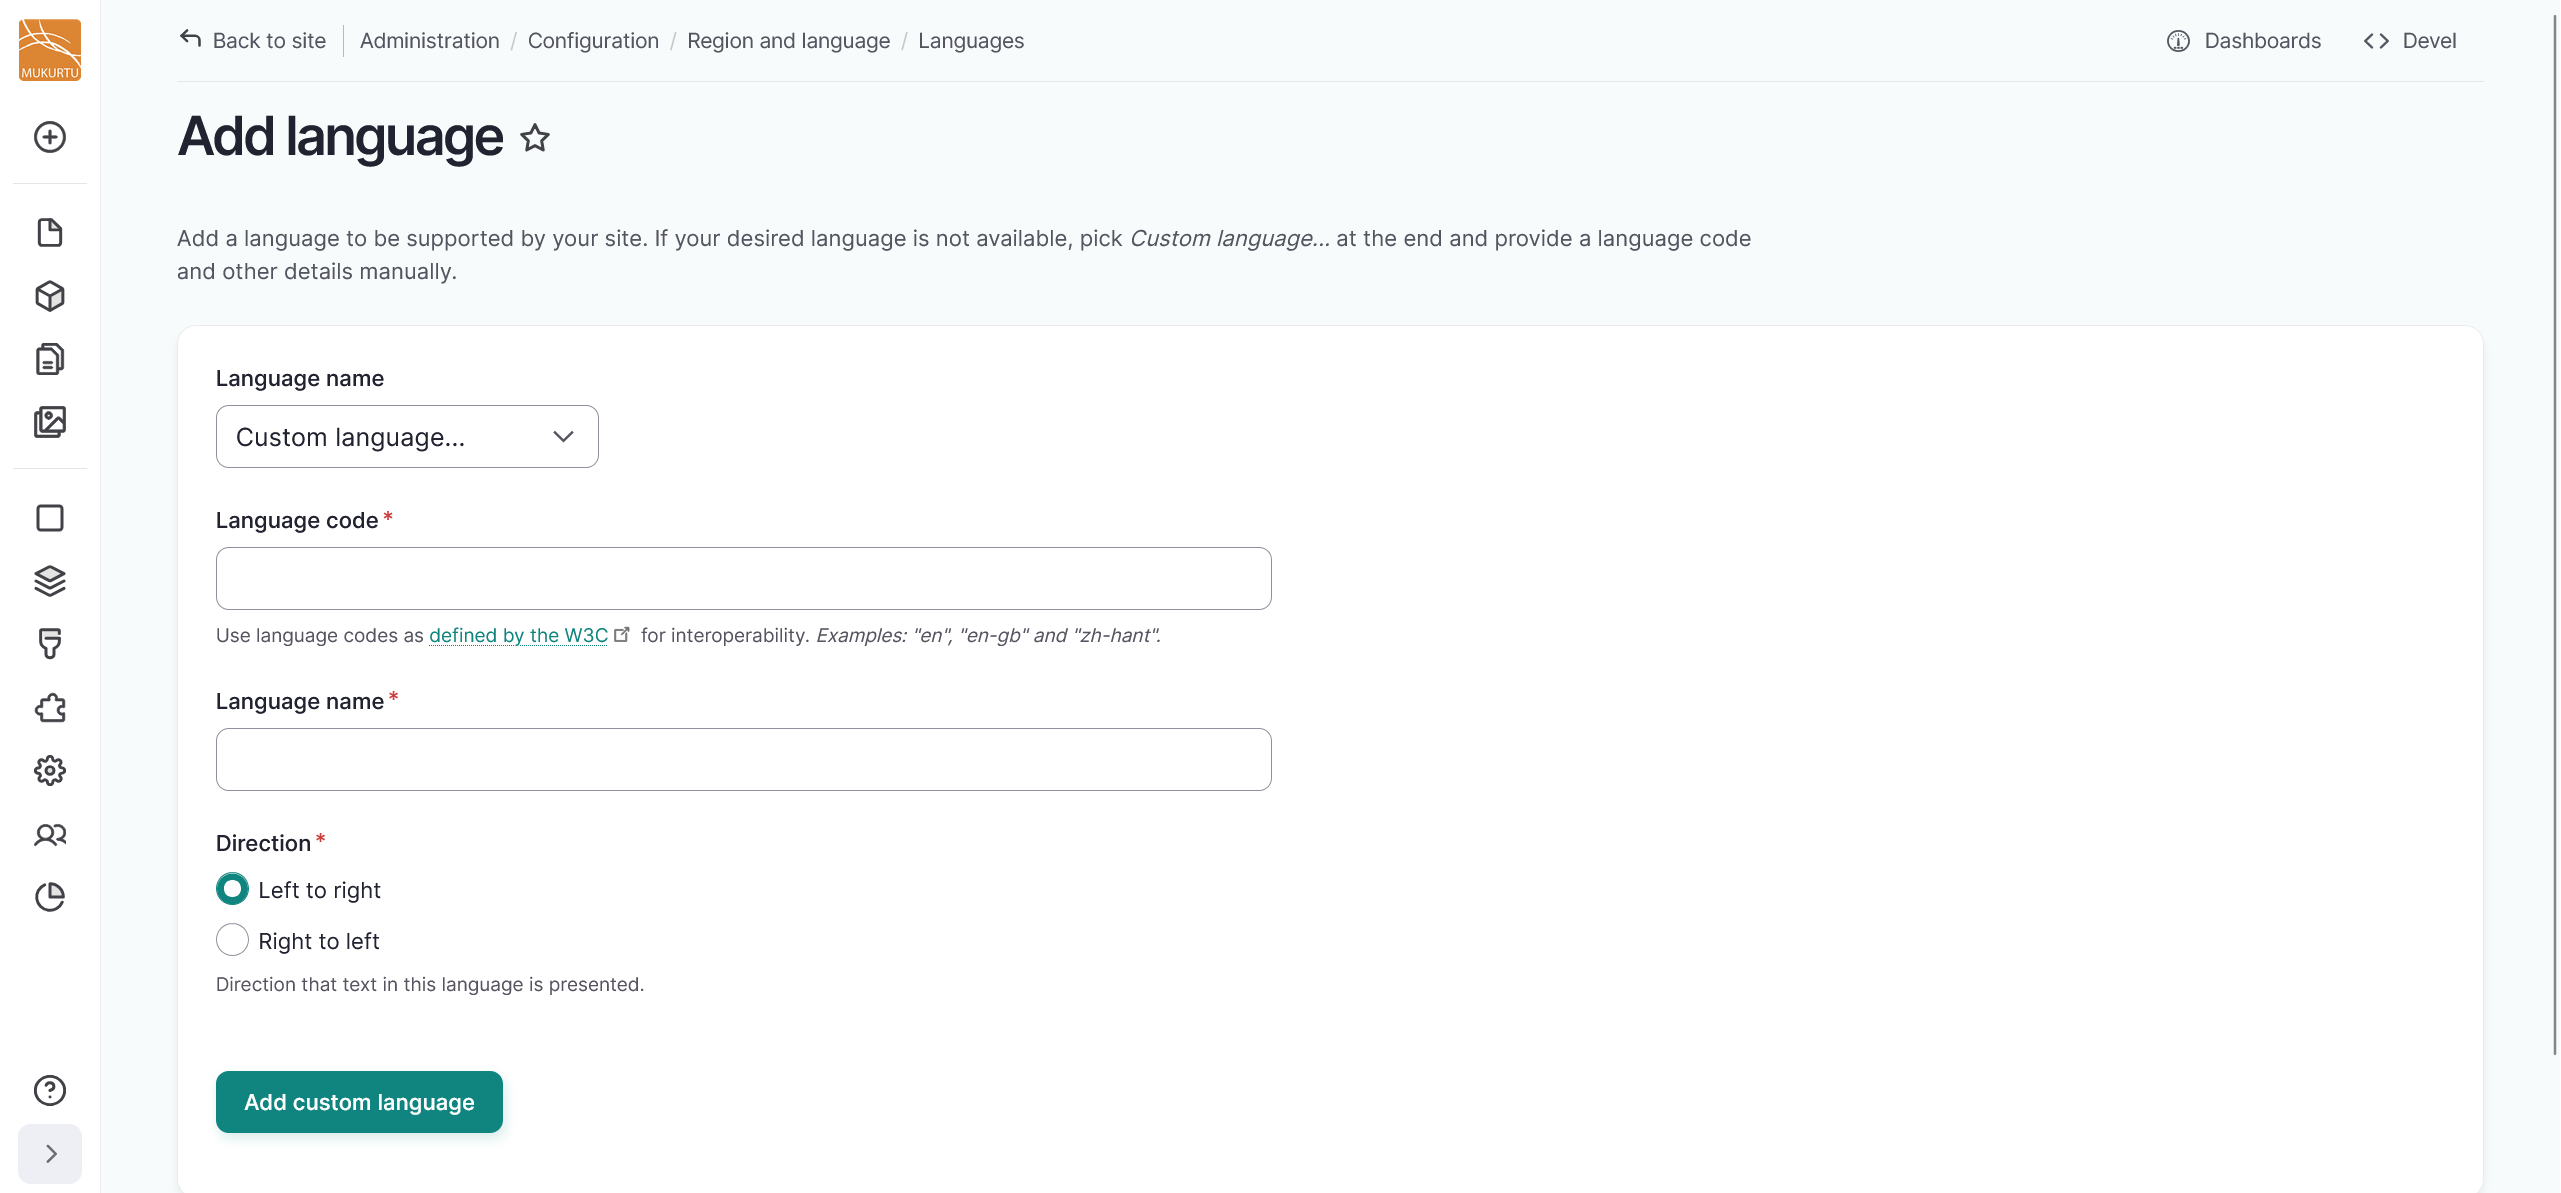
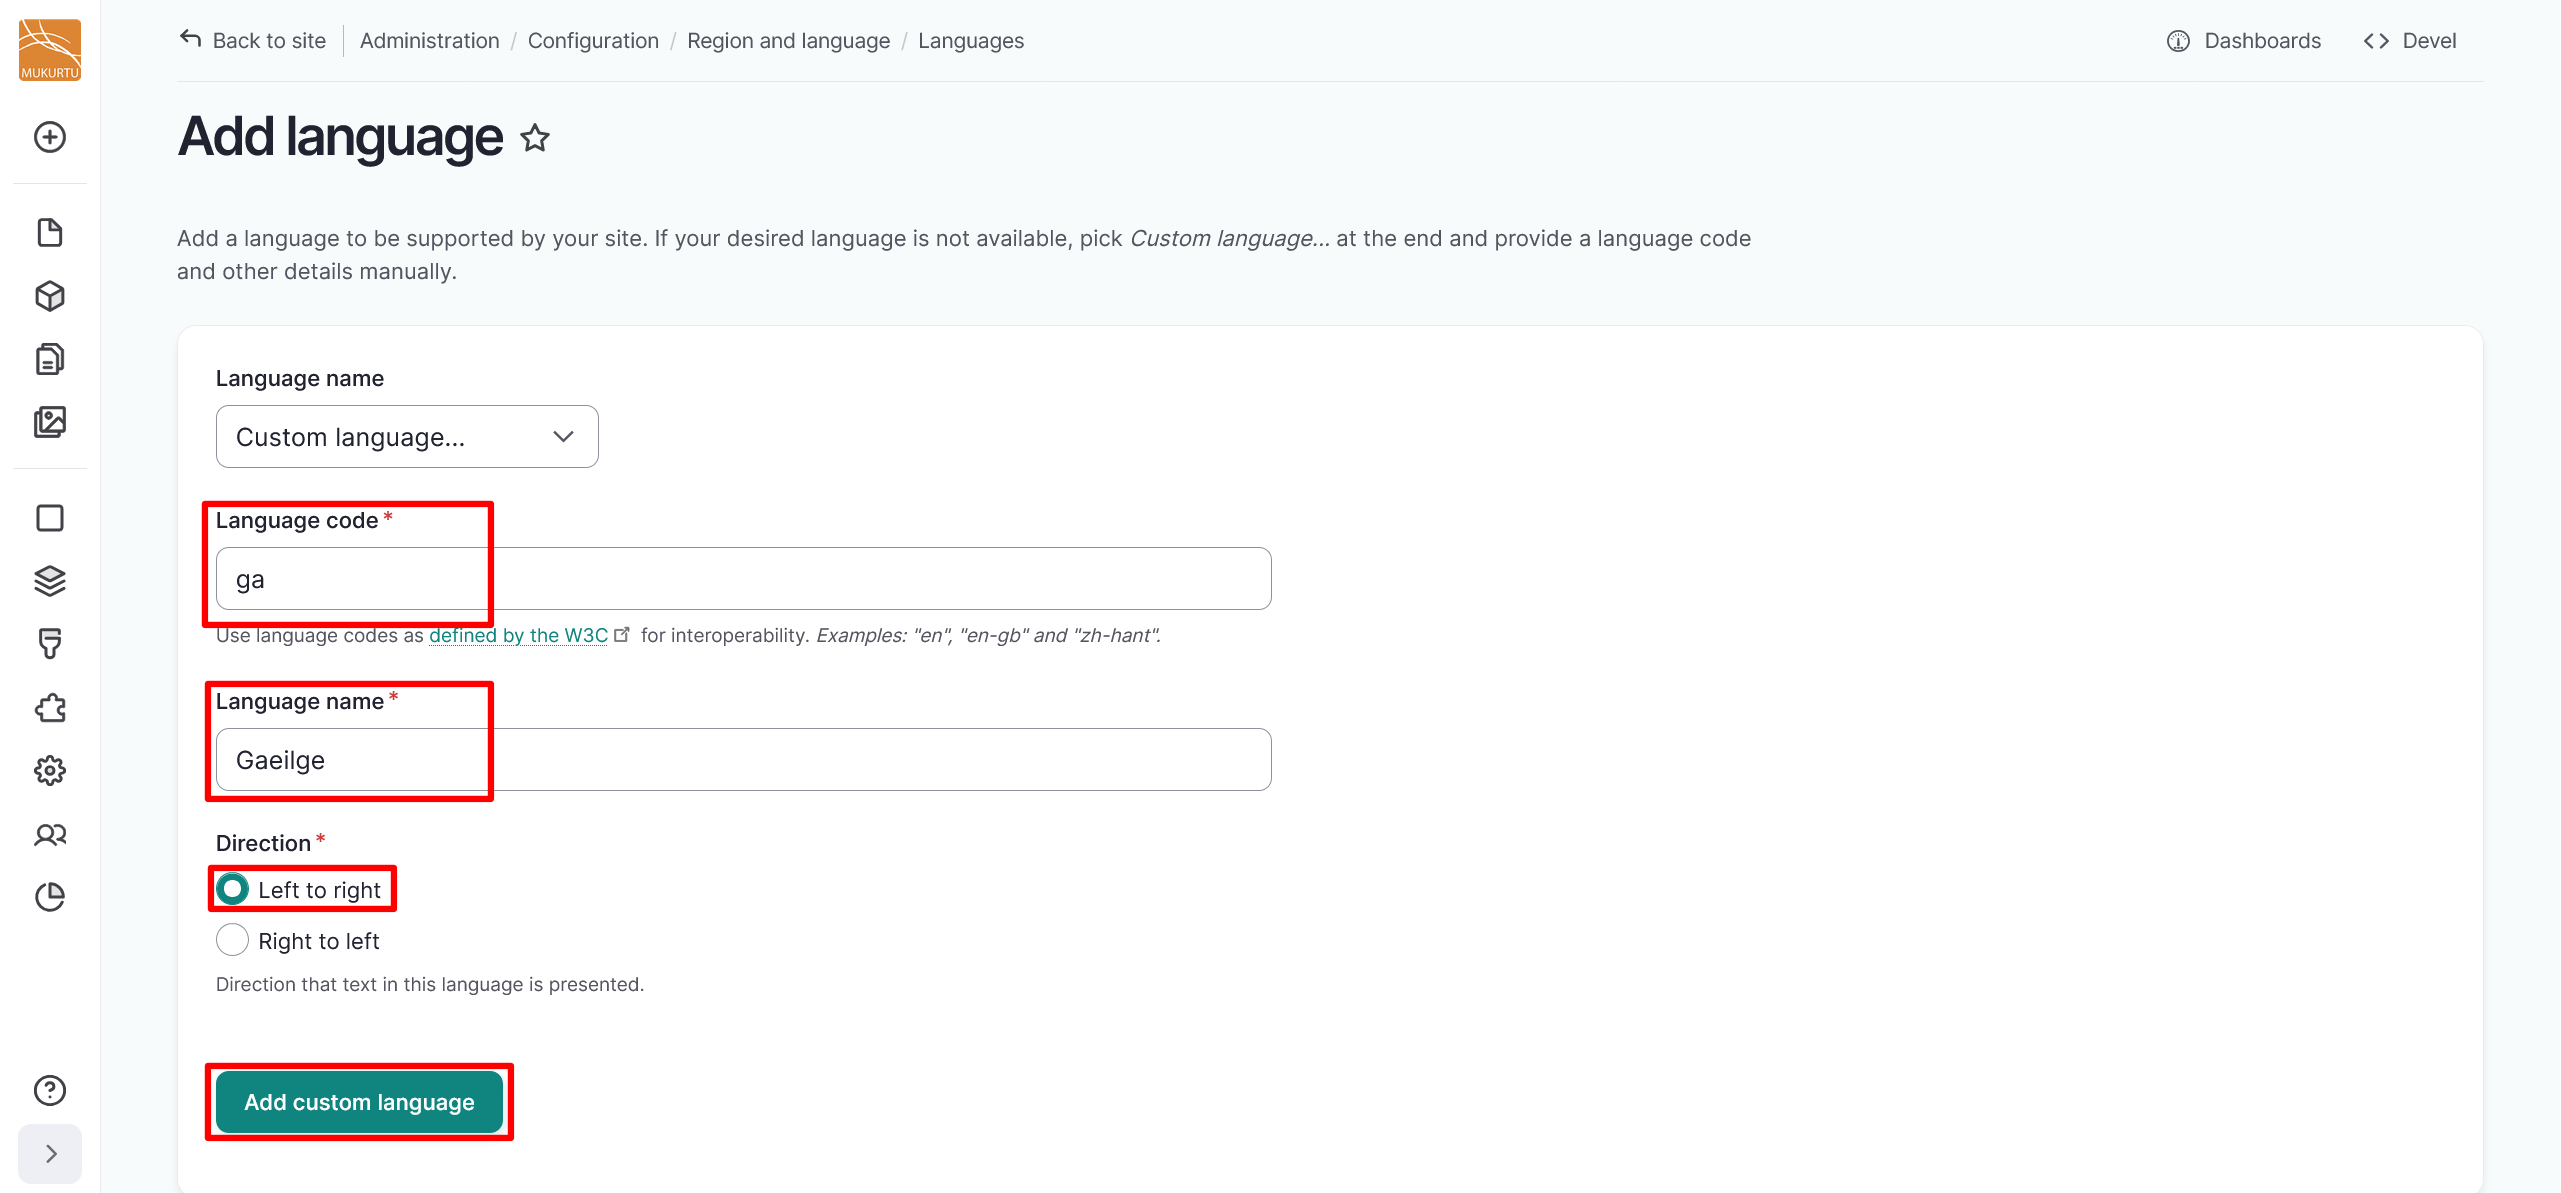
Translation update

diff --git a/docs/localization-translation/ConfigureTranslation.md b/docs/localization-translation/ConfigureTranslation.md
@@ -8,12 +8,16 @@ tags:
 !!! roles "User role"
     Mukurtu manager
 
-The following modules should already be included in a standard Mukurtu 4 build, and can be installed from the front end of the site.
+Mukurtu 4 supports translation and localization into multiple languages. 
+
+The following modules should already be included in a standard Mukurtu 4 build, and can be installed from the front end of the site. The Language Module is already installed, but Configuration Translation, Content Translation, and Interface Translation are not configured be default. 
 
 - Configuration Translation
 - Content Translation
 - Interface Translation
 - Language Module
+
+Follow the instructions below to configure your site to display the user interface and site content in multiple languages. 
 
 ## Enable required modules
 
@@ -32,33 +36,3 @@ The following modules should already be included in a standard Mukurtu 4 build, 
 4. You will receive a status message confirming whether your modules have been installed. You will also receive a warning message with the next steps for configuring your Mukurtu site's language.
 
     ![Screenshot of the Extend menu with the status and warning messages displayed.](../_embeds/translation3.png)
-
-## Add a language
-
-You can add pre-configured or custom languages to your Mukurtu site by following the link in the warning message or by navigating to Configuration > Region and Languages > Language in your left-hand sidebar. You can access this setting directly by going to `/admin/config/regional/language`.
-
-![Screenshot of the Configuration menu with Region and Languages open and Language highlighted](../_embeds/translation7.png)
-
-### Add a pre-configured language
-
-1. Select the "Add Language" button in the top right-hand corner of the Languages configuration page.
-
-    ![Screenshot of the languages configuration page with the add language button highlighted](../_embeds/translation4.png)
-
-2. Select a language to be supported by your site from the dropdown menu. If your language is not listed in the dropdown menu, refer to [Add a custom language code](#add-a-custom-language-code) section of this article for instructions on how to add your language.
-
-    ![Screenshot of the Add language page with the dropdown menu set to French.](../_embeds/translation5.png)
-
-3. Select the "Add language" button to add the selected language to your site.
-4. You will receive a confirmation message your language has been added successfully.
-
-    ![Screenshot of the status message confirming that a language has been added successfully.](../_embeds/translation6.png)
-
-### Add a custom language code
-
-1. If your language is not available, select the "Custom language" option to provide a language code and other details manually.
-
-    !!! tip
-        More information about constructing custom languages and custom language codes can be found at the [IANA Language Tags Registry](https://www.w3.org/International/articles/language-tags/) site. For more information on constructing custom language tags, visit the [IANA Language Tags Registry https://r12a.github.io/app-subtags/
-
-    ![Screenshot of the Add language page with the dropdown menu set to Custom language...and the fields available](../_embeds/translation8.png)

diff --git a/docs/localization-translation/AddLanguage.md b/docs/localization-translation/AddLanguage.md
@@ -1,0 +1,49 @@
+---
+tags:
+    - translation and localization
+---
+
+# Configure Translation and Localization
+
+!!! roles "User role"
+    Mukurtu manager
+
+# Add Languages
+
+You can add pre-configured or custom languages to your Mukurtu site after configuring translation by following the link in the warning message or by navigating to Configuration > Region and Languages > Language in your left-hand sidebar. You can access this setting directly by going to `/admin/config/regional/language`. For more information on configuring translation, refer to [Configure Translation and Localization](ConfigureTranslation.md)
+
+![Screenshot of the Configuration menu with Region and Languages open and Language highlighted](../_embeds/translation7.png)
+
+## Add a pre-configured language
+
+1. Select the "Add Language" button in the top right-hand corner of the Languages configuration page.
+
+    ![Screenshot of the languages configuration page with the add language button highlighted](../_embeds/translation4.png)
+
+2. Select a language to be supported by your site from the dropdown menu. If your language is not listed in the dropdown menu, refer to [Add a custom language code](#add-a-custom-language-code) section of this article for instructions on how to add your language.
+
+    ![Screenshot of the Add language page with the dropdown menu set to French.](../_embeds/translation5.png)
+
+3. Select the "Add language" button to add the selected language to your site.
+4. You will receive a confirmation message your language has been added successfully.
+
+    ![Screenshot of the status message confirming that a language has been added successfully.](../_embeds/translation6.png)
+
+## Add a custom language code
+
+1. If your language is not available, select the "Custom language" option to provide a language code and other details manually.
+
+    - A listing of IANA language tags can be found at the [IANA Language Tags Registry](https://r12a.github.io/app-subtags/) site. 
+    - If your language is not listed, you can construct a custom language tag. For more information on constructing custom language tags, visit the [IANA Language Tags Registry](https://www.w3.org/International/articles/language-tags/). 
+
+2. Add your language code in the *Language code* field.
+3. Add the name of your language in the *Language name* field. 
+4. Select a text direction for your language. 
+5. Select the "Add custom language" button to import your language.
+
+    !!! tip
+        Custom languages may have fewer fields translated than other languages. 
+        
+For more information on language tags and subtags, visit the [IANA Language Tags Registry Primary Language Subtag](https://www.w3.org/International/articles/language-tags/#language) article. For help configuring a custom language, please contact Mukurtu Support at [support@mukurtu.org](mailto:support@mukurtu.org).
+
+![Screenshot of the Add language page with the dropdown menu set to Custom language...and the fields available, filled in and highlighted, as well as the text direction and Add language button.](../_embeds/translation8.png)
